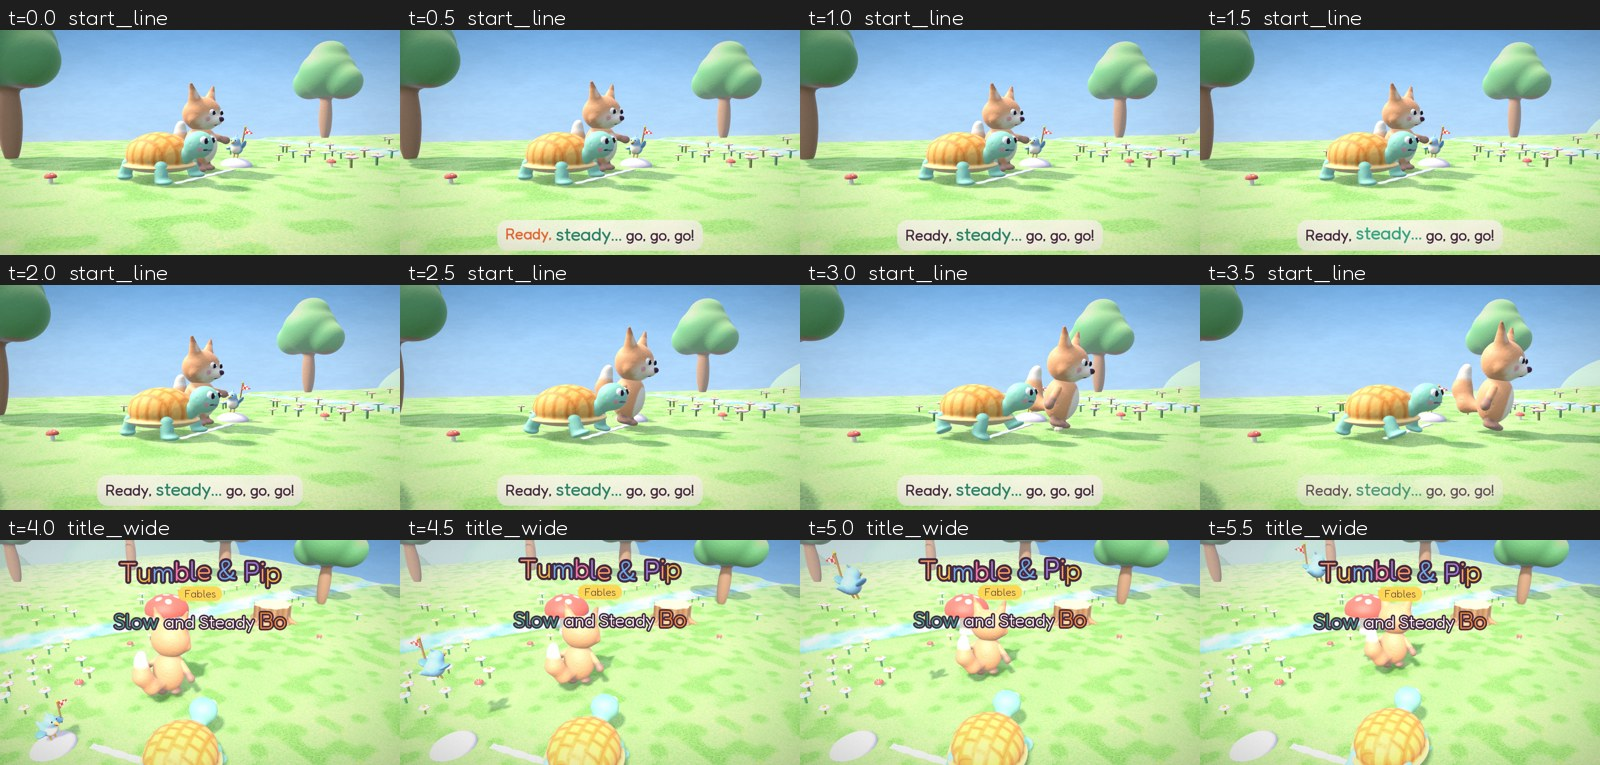
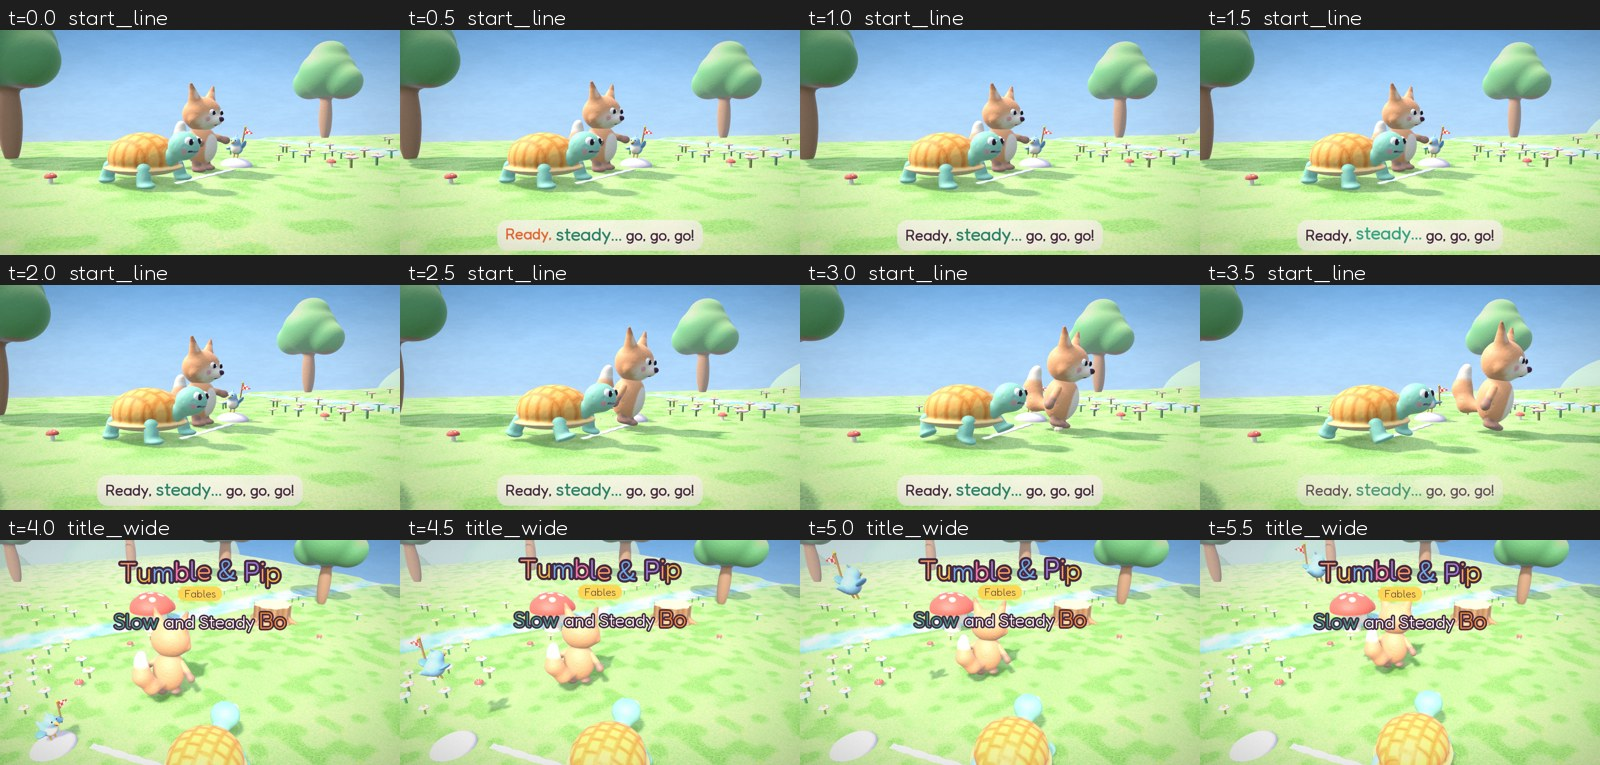
Fable 4: restage wake and finish, QA 0
Claude-Session: https://claude.ai/code/session_014V3fxhp9FCSDpE2UtNdN7a

diff --git a/batches/01-fables-friendship/fable-04-slow-and-steady-bo/code/render.py b/batches/01-fables-friendship/fable-04-slow-and-steady-bo/code/render.py
@@ -28,17 +28,17 @@ START = np.array([-3.6, 2.6])
 DIR = np.array([0.8, -0.6]); NRM = np.array([0.6, 0.8])      # along the course; across it (towards the front camera)
 YAW_RUN = math.atan2(DIR[0], DIR[1]); YAW_BACK = math.atan2(-DIR[0], -DIR[1])
 def C(s, lane): return START + DIR * s + NRM * lane
-LANE_T, LANE_B = -0.7, 0.75
+LANE_T, LANE_B = -0.7, 1.2
 BO_S = 1.15
 STUMP_S = 1.3; STUMP = C(9.95, 0.55); STUMP_TOP = 0.55 * STUMP_S - 0.02; STUMP_ROT = 1.2
 S_TOUCH = 7.94                                               # Bo's nose on the stump
 RUN_S = 6.0                                                  # where Tumble skids to a stop
-NAP = C(8.4, -1.9); NAP_YAW = math.atan2(NRM[0], NRM[1])   # lying on his side, face to the course-side cameras, head up-course under the mushroom, head towards the finish
-MUSH1 = C(6.95, -2.85); MUSH1_S = 1.5                        # the giant mushroom his snores puff
+NAP = C(8.4, -1.35); NAP_YAW = math.atan2(NRM[0], NRM[1])   # lying on his side, face to the course-side cameras, head up-course under the mushroom, head towards the finish
+MUSH1 = C(6.95, -3.5); MUSH1_S = 1.5                        # the giant mushroom his snores puff
 MUSH2 = C(8.3, -3.8); MUSH2_S = 1.05
 PEB = C(0.25, -2.0)                                          # Pip's referee pebble
 PEB_TOP = 0.07 * 3.0
-FIN_T = C(9.3, 2.35)                                        # Tumble skids in here
+FIN_T = C(6.5, 2.2)                                        # Tumble skids in here
 FIN_LOOK = (NRM - DIR * 0.6) / np.linalg.norm(NRM - DIR * 0.6)   # the finish camera's side
 MSPOT = np.array([4.3, -0.85])                              # moral, chorus and button: Tumble here, Bo on his left
 BO_M = np.array([2.8, -0.35])
@@ -327,11 +327,11 @@ def camera(t):
         c = (STUMP + b["p"]) / 2 + NRM * 0.1
         return fit_cam(np.array([c[0], 0.95, c[1]]), yaw_of(-DIR) + 50, -4, 2.2, 1.4, lift=0.06)
     if name == "wake":                                       # medium side: the jolt and the spinning legs
-        c = NAP + DIR * 0.4
-        return fit_cam(np.array([c[0], 1.0, c[1]]), yaw_of(-NRM) + 8, 6, 2.2, 1.6)
+        c = NAP - DIR * 0.2
+        return fit_cam(np.array([c[0], 1.1, c[1]]), yaw_of(NRM) - SG * 12, 34, 2.6 if not WIDE else 3.4, 2.1)
     if name == "finish":                                     # low wide past the stump: Bo touches, Tumble skids in
-        c = (C(S_TOUCH, LANE_B) + FIN_T) / 2 + DIR * 0.2
-        return fit_cam(np.array([c[0], 0.85, c[1]]), yaw_of(FIN_LOOK) + lerp(-4, 4, e), 8, 2.05, 1.3, lift=0.03)
+        c = (C(S_TOUCH + 1.0, LANE_B) + FIN_T) / 2
+        return fit_cam(np.array([c[0], 0.95, c[1]]), yaw_of(NRM) + lerp(-6, 6, e), 10, 3.0 if not WIDE else 4.2, 1.9, lift=0.03)
     mid = (MSPOT + BO_M) / 2
     if name == "moral":
         return fit_cam(np.array([mid[0] + 0.2, lerp(1.3, 1.35, e), mid[1]]), lerp(10, 4, e), 6, lerp(2.0, 1.75, e), lerp(1.45, 1.3, e))
